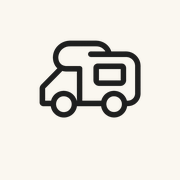
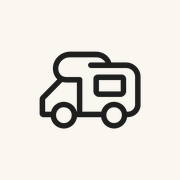
Add files via upload

Changed region(s): [[0.1944, 0.2222, 0.8056, 0.7222]]

diff --git a/browse.html b/browse.html
@@ -34,6 +34,7 @@
        fighting for the same row, since a phone-width screen has no room for
        both side by side */
     #filters-toggle-btn{ top:auto !important; bottom:calc(40vh + 32px); left:16px; height:auto; }
+    #locate-btn{ top:auto !important; bottom:calc(40vh + 32px); left:auto; right:16px; }
     #filters-panel{
       top:auto !important; bottom:calc(40vh + 32px); left:16px;
       max-height:260px;
@@ -148,6 +149,15 @@
     padding:11px 16px; border-radius:10px; font-family:'Inter',sans-serif;
     font-size:13px; font-weight:600; cursor:pointer; box-shadow:0 3px 10px rgba(0,0,0,0.15);
   }
+  #locate-btn{
+    position:absolute; top:76px; left:140px; z-index:1000;
+    background:#fff; color:var(--night); border:2px solid var(--night);
+    width:44px; height:44px; border-radius:50%; cursor:pointer;
+    display:flex; align-items:center; justify-content:center;
+    box-shadow:0 3px 10px rgba(0,0,0,0.15);
+  }
+  #locate-btn.active{ background:var(--night); color:var(--amber); }
+  #locate-btn:disabled{ opacity:0.5; cursor:wait; }
   #filters-panel{
     position:absolute; top:128px; left:16px; z-index:1000;
     background:#fff; border:2px solid var(--night); border-radius:10px;
@@ -174,7 +184,7 @@
 
 <header>
   <a href="index.html" style="color:inherit; text-decoration:none; display:flex; align-items:center; gap:8px;">
-    <img src="logo-64-light.png" width="20" height="20" alt="" style="flex-shrink:0;">RVnB — Find a Spot
+    <img src="logo-64-light.png" width="20" height="20" alt="" style="flex-shrink:0;">RV<span style="color:var(--sign-green);">n</span>B — Find a Spot
   </a>
   <a href="index.html">← Back to home</a>
 </header>
@@ -185,6 +195,12 @@
   <button id="search-btn">Search</button>
 </div>
 <button id="filters-toggle-btn">Filters ▾</button>
+<button id="locate-btn" title="Show my location" aria-label="Show my location">
+  <svg width="20" height="20" viewBox="0 0 24 24" fill="none" xmlns="http://www.w3.org/2000/svg">
+    <circle cx="12" cy="12" r="3" fill="currentColor"/>
+    <path d="M12 2v3M12 19v3M22 12h-3M5 12H2" stroke="currentColor" stroke-width="2" stroke-linecap="round"/>
+  </svg>
+</button>
 <div id="filters-panel" style="display:none;">
   <div class="filter-row">
     <label for="filter-type">Business type</label>
@@ -245,6 +261,53 @@
   L.tileLayer('https://{s}.tile.openstreetmap.org/{z}/{x}/{y}.png', {
     attribution: '&copy; OpenStreetMap contributors'
   }).addTo(map);
+
+  // "Locate me" — shows a blue dot for the traveler's own position so they
+  // can see how far listings are from where they actually are.
+  const youAreHereIcon = L.divIcon({
+    className: 'you-are-here-wrapper',
+    html: `<div style="width:16px; height:16px; border-radius:50%; background:#4285F4; border:3px solid #fff; box-shadow:0 0 0 2px rgba(66,133,244,0.4), 0 2px 6px rgba(11,18,32,0.35);"></div>`,
+    iconSize: [16, 16],
+    iconAnchor: [8, 8],
+  });
+  let youAreHereMarker = null;
+  const locateBtn = document.getElementById('locate-btn');
+
+  locateBtn.addEventListener('click', () => {
+    if(!navigator.geolocation){
+      statusEl.style.display = 'block';
+      statusEl.textContent = 'Your browser doesn\'t support location — try searching by city instead.';
+      return;
+    }
+
+    locateBtn.disabled = true;
+    locateBtn.classList.add('active');
+
+    navigator.geolocation.getCurrentPosition(
+      (pos) => {
+        const { latitude, longitude } = pos.coords;
+
+        if(youAreHereMarker){
+          youAreHereMarker.setLatLng([latitude, longitude]);
+        } else {
+          youAreHereMarker = L.marker([latitude, longitude], { icon: youAreHereIcon, zIndexOffset: 900 }).addTo(map);
+          youAreHereMarker.bindPopup('You are here');
+        }
+
+        map.setView([latitude, longitude], 13);
+        locateBtn.disabled = false;
+      },
+      (err) => {
+        locateBtn.disabled = false;
+        locateBtn.classList.remove('active');
+        statusEl.style.display = 'block';
+        statusEl.textContent = err.code === err.PERMISSION_DENIED
+          ? 'Location access was blocked — enable it in your browser settings to see your position on the map.'
+          : 'Could not get your location. Try again, or search by city instead.';
+      },
+      { enableHighAccuracy: true, timeout: 10000 }
+    );
+  });
 
   const amberIcon = L.divIcon({
     className: 'map-pin-wrapper',
@@ -359,6 +422,31 @@
         });
         dots.forEach((d, i) => d.classList.toggle('active', i === closestIndex));
       }, 80);
+    });
+
+    positionMobileControls();
+  }
+
+  // The CSS mobile layout assumes the carousel panel always fills its
+  // max-height:40vh, and anchors Filters/Locate 32px above that fixed
+  // point. But the carousel's real height depends on how many listings
+  // are showing — with only 1-2 results it's much shorter than 40vh,
+  // leaving a big empty gap and making the buttons sit too high. Measure
+  // the carousel's actual on-screen top instead and pin the buttons just
+  // above it.
+  function positionMobileControls(){
+    if(window.innerWidth > 820) return;
+    const carousel = document.getElementById('carousel-panel');
+    const filtersBtn = document.getElementById('filters-toggle-btn');
+    const locateBtn = document.getElementById('locate-btn');
+    const filtersPanel = document.getElementById('filters-panel');
+    if(!carousel || !filtersBtn) return;
+
+    const gap = 12;
+    const bottomOffset = Math.max(0, window.innerHeight - carousel.getBoundingClientRect().top) + gap;
+
+    [filtersBtn, locateBtn, filtersPanel].forEach(el => {
+      if(el) el.style.setProperty('bottom', bottomOffset + 'px', 'important');
     });
   }
 
@@ -600,7 +688,7 @@
 
   loadListings();
 
-  window.addEventListener('resize', () => { map.invalidateSize(); });
+  window.addEventListener('resize', () => { map.invalidateSize(); positionMobileControls(); });
 </script>
 
 </body>

diff --git a/host-dashboard.html b/host-dashboard.html
@@ -1409,12 +1409,45 @@
     });
   }
 
+  function positionNotifDropdown(){
+    const dropdown = document.getElementById('notif-dropdown');
+    const btnRect = document.getElementById('notif-bell-btn').getBoundingClientRect();
+    const margin = 12;
+
+    if(window.innerWidth <= 560){
+      // On narrow screens, anchor to the viewport instead of the bell —
+      // the bell can sit anywhere in the header depending on screen width,
+      // so a fixed-width dropdown pinned to its right edge can run off
+      // the left side of the screen otherwise.
+      dropdown.style.position = 'fixed';
+      dropdown.style.left = margin + 'px';
+      dropdown.style.right = margin + 'px';
+      dropdown.style.top = (btnRect.bottom + 8) + 'px';
+      dropdown.style.width = 'auto';
+      dropdown.style.minWidth = '0';
+      dropdown.style.maxWidth = 'none';
+    } else {
+      dropdown.style.position = '';
+      dropdown.style.left = '';
+      dropdown.style.right = '';
+      dropdown.style.top = '';
+      dropdown.style.width = '';
+      dropdown.style.minWidth = '';
+      dropdown.style.maxWidth = '';
+    }
+  }
+
   document.getElementById('notif-bell-btn').addEventListener('click', (e) => {
     e.stopPropagation();
     const dropdown = document.getElementById('notif-dropdown');
     const isOpen = dropdown.style.display === 'block';
-    dropdown.style.display = isOpen ? 'none' : 'block';
-    if(!isOpen) loadNotifications();
+    if(isOpen){
+      dropdown.style.display = 'none';
+    } else {
+      positionNotifDropdown();
+      dropdown.style.display = 'block';
+      loadNotifications();
+    }
   });
 
   document.addEventListener('click', (e) => {

diff --git a/traveler-dashboard.html b/traveler-dashboard.html
@@ -378,12 +378,41 @@
     });
   }
 
+  function positionNotifDropdown(){
+    const dropdown = document.getElementById('notif-dropdown');
+    const btnRect = document.getElementById('notif-bell-btn').getBoundingClientRect();
+    const margin = 12;
+
+    if(window.innerWidth <= 560){
+      dropdown.style.position = 'fixed';
+      dropdown.style.left = margin + 'px';
+      dropdown.style.right = margin + 'px';
+      dropdown.style.top = (btnRect.bottom + 8) + 'px';
+      dropdown.style.width = 'auto';
+      dropdown.style.minWidth = '0';
+      dropdown.style.maxWidth = 'none';
+    } else {
+      dropdown.style.position = '';
+      dropdown.style.left = '';
+      dropdown.style.right = '';
+      dropdown.style.top = '';
+      dropdown.style.width = '';
+      dropdown.style.minWidth = '';
+      dropdown.style.maxWidth = '';
+    }
+  }
+
   document.getElementById('notif-bell-btn').addEventListener('click', (e) => {
     e.stopPropagation();
     const dropdown = document.getElementById('notif-dropdown');
     const isOpen = dropdown.style.display === 'block';
-    dropdown.style.display = isOpen ? 'none' : 'block';
-    if(!isOpen) loadNotifications();
+    if(isOpen){
+      dropdown.style.display = 'none';
+    } else {
+      positionNotifDropdown();
+      dropdown.style.display = 'block';
+      loadNotifications();
+    }
   });
 
   document.addEventListener('click', (e) => {

diff --git a/index.html b/index.html
@@ -1123,8 +1123,37 @@
         });
       }
 
+      function positionNotifDropdown(){
+        const dropdown = document.getElementById('notif-dropdown');
+        const btnRect = document.getElementById('notif-bell-btn').getBoundingClientRect();
+        const margin = 12;
+
+        if(window.innerWidth <= 560){
+          dropdown.style.position = 'fixed';
+          dropdown.style.left = margin + 'px';
+          dropdown.style.right = margin + 'px';
+          dropdown.style.top = (btnRect.bottom + 8) + 'px';
+          dropdown.style.width = 'auto';
+          dropdown.style.minWidth = '0';
+          dropdown.style.maxWidth = 'none';
+        } else {
+          dropdown.style.position = '';
+          dropdown.style.left = '';
+          dropdown.style.right = '';
+          dropdown.style.top = '';
+          dropdown.style.width = '';
+          dropdown.style.minWidth = '';
+          dropdown.style.maxWidth = '';
+        }
+      }
+
+      // This bell can open via hover (like the other nav dropdowns) or a tap,
+      // so reposition on both paths rather than just the click handler.
+      document.getElementById('notif-bell-wrap').addEventListener('mouseenter', positionNotifDropdown);
+
       document.getElementById('notif-bell-btn').addEventListener('click', (e) => {
         e.stopPropagation();
+        positionNotifDropdown();
         loadNotifications();
       });
 

diff --git a/cancellation-policy.html b/cancellation-policy.html
@@ -44,7 +44,7 @@
 <header>
   <div class="wrap">
     <a href="index.html" style="font-family:'Manrope',sans-serif; font-weight:700; text-transform:uppercase; color:var(--lane); text-decoration:none; display:flex; align-items:center; gap:8px;">
-      <img src="logo-64-light.png" width="20" height="20" alt="" style="flex-shrink:0;">RVnB
+      <img src="logo-64-light.png" width="20" height="20" alt="" style="flex-shrink:0;">RV<span style="color:var(--sign-green);">n</span>B
     </a>
     <a class="back" href="index.html">← Back to home</a>
   </div>

diff --git a/terms.html b/terms.html
@@ -37,7 +37,7 @@
 <header>
   <div class="wrap">
     <a href="index.html" style="font-family:'Manrope',sans-serif; font-weight:700; text-transform:uppercase; color:var(--lane); text-decoration:none; display:flex; align-items:center; gap:8px;">
-      <img src="logo-64-light.png" width="20" height="20" alt="" style="flex-shrink:0;">RVnB
+      <img src="logo-64-light.png" width="20" height="20" alt="" style="flex-shrink:0;">RV<span style="color:var(--sign-green);">n</span>B
     </a>
     <a class="back" href="index.html">← Back to home</a>
   </div>

diff --git a/cancel-booking.html b/cancel-booking.html
@@ -41,7 +41,7 @@
 <header>
   <div class="wrap">
     <a href="index.html" style="color:inherit; text-decoration:none; display:flex; align-items:center; gap:8px; font-family:'Manrope',sans-serif; font-weight:700; text-transform:uppercase;">
-      <img src="logo-64-light.png" width="20" height="20" alt="" style="flex-shrink:0;">RVnB
+      <img src="logo-64-light.png" width="20" height="20" alt="" style="flex-shrink:0;">RV<span style="color:var(--sign-green);">n</span>B
     </a>
     <a href="index.html">← Home</a>
   </div>

diff --git a/review.html b/review.html
@@ -48,7 +48,7 @@
 <header>
   <div class="wrap">
     <a href="index.html" style="color:inherit; text-decoration:none; display:flex; align-items:center; gap:8px; font-family:'Manrope',sans-serif; font-weight:700; text-transform:uppercase;">
-      <img src="logo-64-light.png" width="20" height="20" alt="" style="flex-shrink:0;">RVnB
+      <img src="logo-64-light.png" width="20" height="20" alt="" style="flex-shrink:0;">RV<span style="color:var(--sign-green);">n</span>B
     </a>
     <a href="index.html">← Home</a>
   </div>

diff --git a/listing.html b/listing.html
@@ -102,7 +102,7 @@
 <header>
   <div class="wrap">
     <a href="index.html" class="brand" style="text-decoration:none; display:flex; align-items:center; gap:8px;">
-      <img src="logo-64-light.png" width="20" height="20" alt="" style="flex-shrink:0;">RVnB
+      <img src="logo-64-light.png" width="20" height="20" alt="" style="flex-shrink:0;">RV<span style="color:var(--sign-green);">n</span>B
     </a>
     <a class="back" href="browse.html" id="back-link">← Back</a>
   </div>

diff --git a/list-your-lot.html b/list-your-lot.html
@@ -90,7 +90,7 @@
 <header>
   <div class="wrap">
     <a href="index.html" class="brand" style="text-decoration:none; display:flex; align-items:center; gap:8px;">
-      <img src="logo-64-light.png" width="20" height="20" alt="" style="flex-shrink:0;">RVnB
+      <img src="logo-64-light.png" width="20" height="20" alt="" style="flex-shrink:0;">RV<span style="color:var(--sign-green);">n</span>B
     </a>
     <a class="back" href="index.html">← Back to home</a>
   </div>
